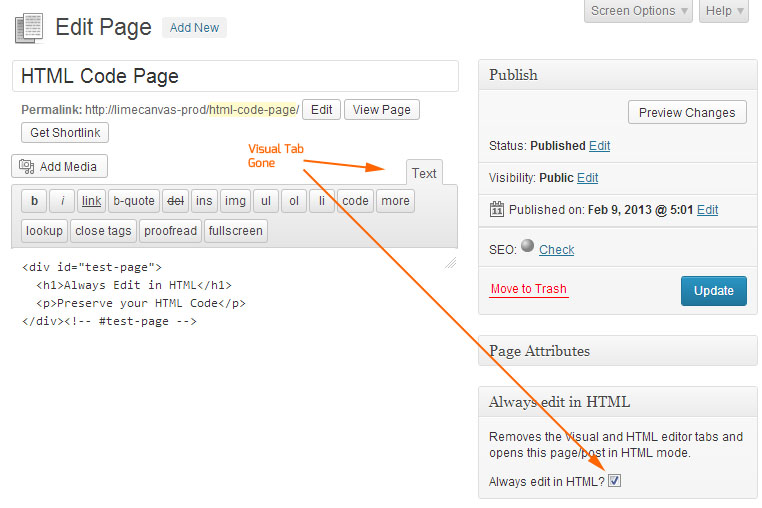
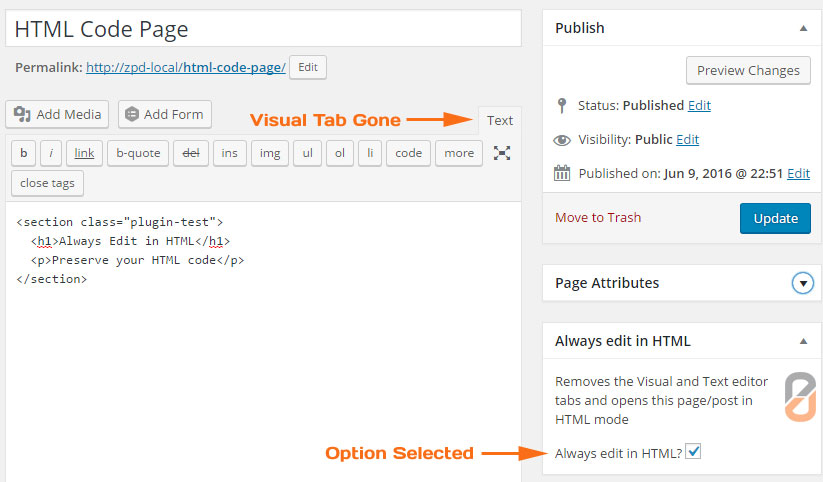
* Updated screen shots * Brand image replacement with Zero Point Development mark * Changed all references of "HTML tab" to "Text tab" * Checked compatibility with 4.5.2

diff --git a/always-edit-in-html.php b/always-edit-in-html.php
@@ -2,9 +2,9 @@
 
 /*
 Plugin Name: Always Edit in HTML
-Plugin URI: http://www.limecanvas.com/wordpress-plugins/always-edit-in-html-wordpress-plugin/
-Description: Opens page and post editor in HTML mode to preserve formatting.
-Version: 2.0
+Plugin URI: https:/zeropointdevelopment.com/wordpress-plugins/always-edit-in-html-wordpress-plugin/
+Description: Opens page and post editor in HTML mode to preserve formatting.  Hides Visual editor tab.
+Version: 2.1
 Author: DeveloperWil
 Author URI: https://profiles.wordpress.org/developerwil
 
@@ -51,7 +51,7 @@ function always_edit_in_html_handler(){
     if( $post == null ) return;
 
     echo '<style type="text/css">';
-    echo '#always-edit-in-html .inside{background: url('.plugins_url( '/images/lime-canvas-mark.png', __FILE__ ).') no-repeat top right;padding-right:55px;}';
+    echo '#always-edit-in-html .inside{background: url('.plugins_url( '/images/zeropointdevelopment-mark.png', __FILE__ ).') no-repeat 98% 0%;padding-right:42px;}';
     echo '</style>';
 
 
@@ -110,7 +110,7 @@ function always_edit_in_html_custom_box( $post ){
     $editInHTML = always_edit_in_html_get_html_edit_status( $post->ID );
 
     // Create the form  with the options field and brief explaination of what it does.
-    echo '<p>'.__( 'Removes the Visual and HTML editor tabs and opens this page/post in HTML mode', 'always-edit-in-html' ).'</p>';
+    echo '<p>'.__( 'Removes the Visual and Text editor tabs and opens this page/post in HTML mode', 'always-edit-in-html' ).'</p>';
     echo '<label for="always_edit_in_html">'.__( 'Always edit in HTML?', 'always-edit-in-html' ).'</label> ';
     echo '<input type="checkbox" id="always_edit_in_html" name="always_edit_in_html" value="on" ';
 
